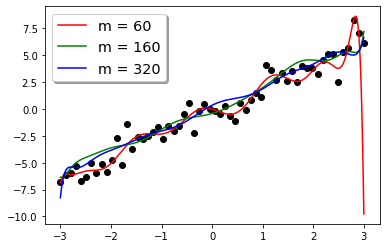
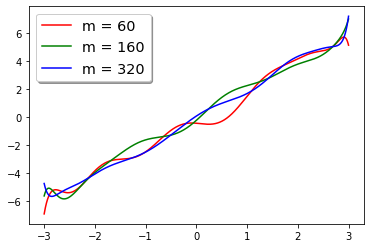
test

diff --git a/question-d.py b/question-d.py
@@ -62,8 +62,6 @@ noise = np.random.normal(mu, sigma, size) #Create Gaussian Noise
 
 y = 2*x + noise
 
-ax.scatter (x, y, c='k')
-
 x = np.reshape( np.append( x, np.ones(size)), (2, size)).T
 x_training, x_testing, y_training, y_test = train_test_split(x, y, test_size=0.25)
 
